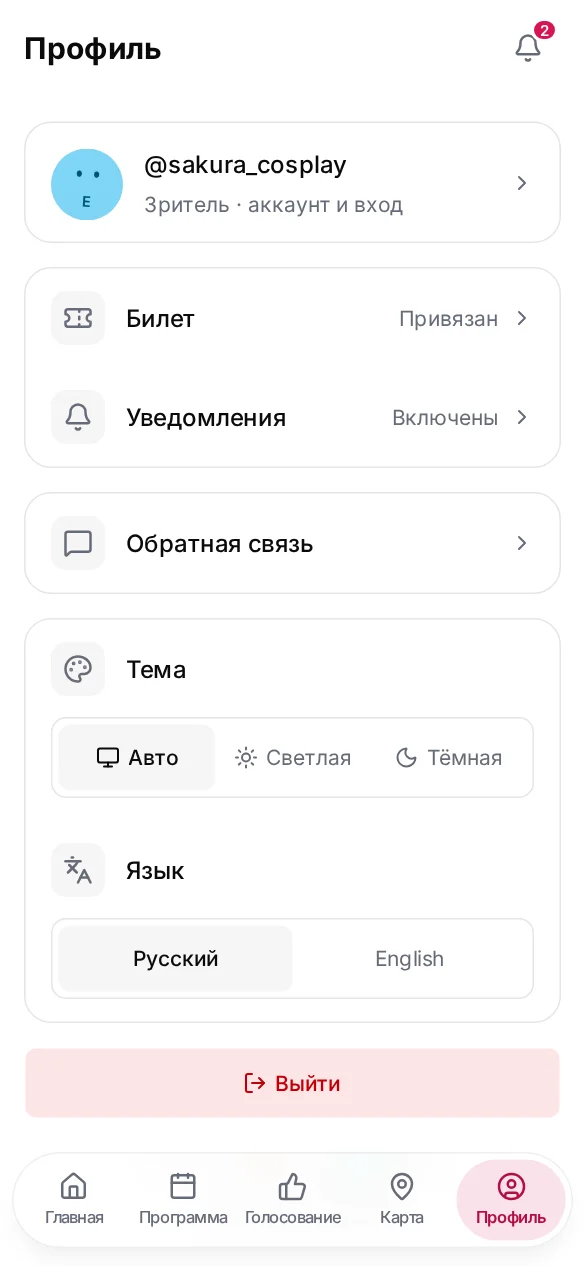
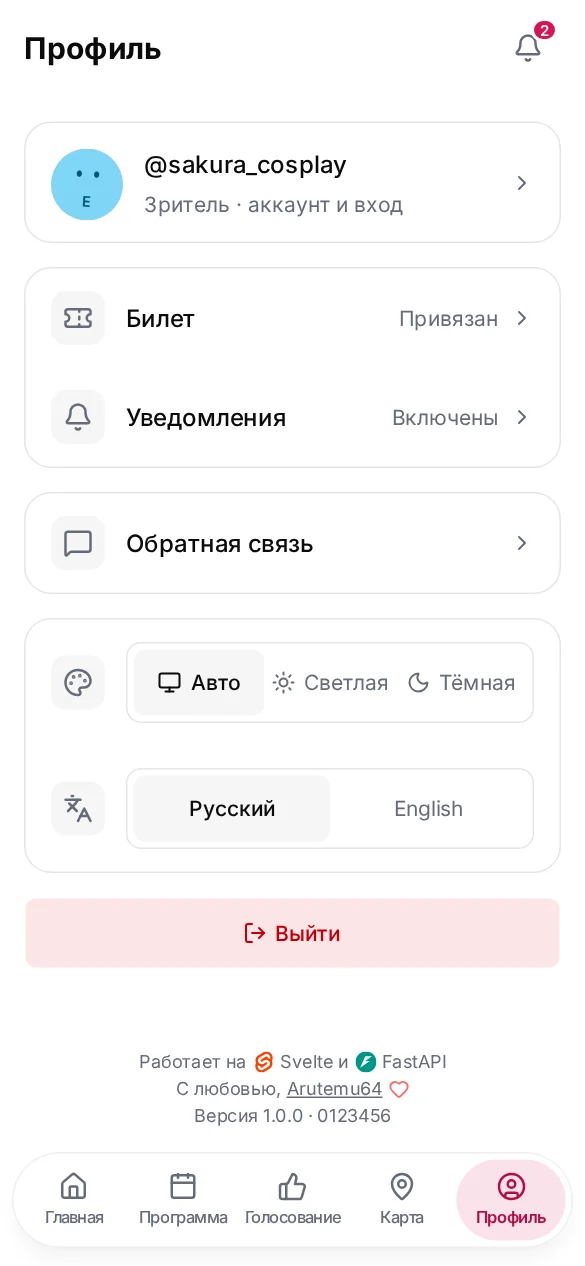
feat(frontend): English for unsupported browsers and a profile footer above the nav
A browser listing neither Russian nor English now opens in English, with a
saved pick still winning. The theme and language rows are one line each, so
the profile footer clears the bottom nav without scrolling at 390x844.

Claude-Session: https://claude.ai/code/session_01QGKQirUGb8a7znZn7Lq7jR

diff --git a/frontend/src/routes/(app)/profile/+page.svelte b/frontend/src/routes/(app)/profile/+page.svelte
@@ -197,29 +197,26 @@
 					{/snippet}
 				</Item.Root>
 			{/if}
-			<!-- An icon like every other hub row: the install row above shares this card,
-			     and a list that gives icons to only some rows reads as two layouts. -->
+			<!-- One line per setting: the control carries its own labels, so a title
+			     row above it would only spend height the footer below needs to stay
+			     above the bottom nav without scrolling. An icon like every other hub
+			     row: the install row above shares this card, and a list that gives
+			     icons to only some rows reads as two layouts. -->
 			<Item.Root class="rounded-none">
 				<Item.Media class="size-9 rounded-lg bg-muted text-muted-foreground">
 					<Palette class="size-5" aria-hidden="true" />
 				</Item.Media>
-				<Item.Content>
-					<Item.Title class="text-base">{m.profile_theme()}</Item.Title>
-				</Item.Content>
-				<Item.Footer>
+				<Item.Content class="min-w-0">
 					<ThemeToggle />
-				</Item.Footer>
+				</Item.Content>
 			</Item.Root>
 			<Item.Root class="rounded-none">
 				<Item.Media class="size-9 rounded-lg bg-muted text-muted-foreground">
 					<Languages class="size-5" aria-hidden="true" />
 				</Item.Media>
-				<Item.Content>
-					<Item.Title class="text-base">{m.language()}</Item.Title>
-				</Item.Content>
-				<Item.Footer>
+				<Item.Content class="min-w-0">
 					<LanguageToggle />
-				</Item.Footer>
+				</Item.Content>
 			</Item.Root>
 		</MenuGroup>
 

diff --git a/frontend/e2e/specs/language.spec.ts b/frontend/e2e/specs/language.spec.ts
@@ -1,7 +1,7 @@
 import { expect, test } from '../fixtures';
 
 // The language is the first of: an explicit pick (localStorage, applied after a
-// reload), the browser's language list, Russian. The suite's browser is ru-RU
+// reload), the browser's language list, English for a browser that lists neither. The suite's browser is ru-RU
 // (playwright.config.ts), so the first describe runs as a Russian reader.
 test.describe('interface language', () => {
 	test('stays Russian by default', async ({ page, api }) => {
@@ -81,7 +81,16 @@ test.describe('browser language', () => {
 	test.describe('unsupported browser language', () => {
 		test.use({ locale: 'zh-CN' });
 
-		test('falls back to Russian', async ({ page, api }) => {
+		test('falls back to English', async ({ page, api }) => {
+			await page.goto('/profile');
+
+			await expect(page.locator('html')).toHaveAttribute('lang', 'en');
+			await expect(page.getByRole('main').getByRole('link', { name: 'Sign in' })).toBeVisible();
+			expect(api.unmatched).toEqual([]);
+		});
+
+		test('still honors a saved Russian pick', async ({ page, api }) => {
+			await page.addInitScript(() => localStorage.setItem('PARAGLIDE_LOCALE', 'ru'));
 			await page.goto('/profile');
 
 			await expect(page.locator('html')).toHaveAttribute('lang', 'ru');

diff --git a/frontend/vite.config.ts b/frontend/vite.config.ts
@@ -68,14 +68,16 @@ export default defineConfig(({ mode }) => {
 			}),
 			// Compiles messages/*.json into src/lib/paraglide/ on every dev edit and
 			// build. Client-only locale resolution: an explicit pick (localStorage)
-			// wins, then the browser's language list, then Russian — no URL prefix (the
+			// wins, then the browser's language list, then English for a browser that
+			// lists neither supported language (custom-englishFallback, registered in
+			// hooks.client.ts); Russian is only the last resort — no URL prefix (the
 			// SPA has one URL space and nginx serves one shell for it) and no cookie
 			// (there is no server to read it). See ADR-0027. `pnpm paraglide` compiles the same output for the
 			// tools that run without Vite (svelte-check, ESLint).
 			paraglideVitePlugin({
 				project: './project.inlang',
 				outdir: './src/lib/paraglide',
-				strategy: ['localStorage', 'preferredLanguage', 'baseLocale'],
+				strategy: ['localStorage', 'preferredLanguage', 'custom-englishFallback', 'baseLocale'],
 				emitTsDeclarations: true
 			}),
 			tailwindcss(),

diff --git a/frontend/src/hooks.client.ts b/frontend/src/hooks.client.ts
@@ -8,7 +8,18 @@ import {
 import * as Sentry from '@sentry/sveltekit';
 
 import { m } from '#lib/paraglide/messages.js';
+import { defineCustomClientStrategy } from '#lib/paraglide/runtime.js';
 import { readStorage, writeStorage } from '#lib/utils/safeStorage.js';
+
+// A browser that lists neither Russian nor English (a Chinese or Ukrainian-only
+// setup, say) gets English: the app can't be read in its language either way, and
+// English is the likelier second language. It sits after `preferredLanguage` in
+// the strategy (vite.config.ts), so it only answers when nothing matched. Defined
+// here because this module runs before any route code asks for a locale.
+defineCustomClientStrategy('custom-englishFallback', {
+	getLocale: () => 'en',
+	setLocale: () => {}
+});
 
 // Server errors belong to the backend, which reports them with a full stack
 // trace and request context; a frontend mirror is a duplicate with none of that,

diff --git a/frontend/src/app.html b/frontend/src/app.html
@@ -87,7 +87,7 @@
 				// Match <html lang> to the locale Paraglide will resolve before first
 				// paint, so screen readers and hyphenation pick the right language from
 				// the start. Same order as its strategy (vite.config.ts): the stored
-				// pick, then the first browser language the app supports, else Russian.
+				// pick, then the first browser language the app supports, else English.
 				var locale = null;
 				try {
 					locale = localStorage.getItem('PARAGLIDE_LOCALE');
@@ -100,7 +100,7 @@
 						if (base === 'ru' || base === 'en') locale = base;
 					}
 				}
-				if (locale === 'en') document.documentElement.lang = 'en';
+				document.documentElement.lang = locale === 'ru' ? 'ru' : 'en';
 				if (isDark) {
 					document.documentElement.classList.add('dark');
 					// Seed the shell tint to match the resolved theme before first paint,

diff --git a/frontend/e2e/specs/install.spec.ts b/frontend/e2e/specs/install.spec.ts
@@ -39,7 +39,7 @@ test.describe('in a desktop browser that cannot install', () => {
 
 	test('hides the install row', async ({ page }) => {
 		await page.goto('/profile');
-		await expect(page.getByText('Тема', { exact: true })).toBeVisible();
+		await expect(page.getByRole('group', { name: 'Тема оформления' })).toBeVisible();
 
 		// The library's fallback reports availability on a 1 s timer, so give it
 		// longer than that before asserting the row never appeared.

diff --git a/docs/adr/0027-paraglide-for-frontend-i18n.md b/docs/adr/0027-paraglide-for-frontend-i18n.md
@@ -25,13 +25,16 @@ We will use [Paraglide JS](https://paraglidejs.com) 2.x (`@inlang/paraglide-js`)
 - Messages live in `frontend/messages/{ru,en}.json`, Russian as the base locale,
   compiled by the Vite plugin into `src/lib/paraglide/` (gitignored). Components
   call `m.key()`; each key is a tree-shaken function with typed parameters.
-- Locale strategy is `['localStorage', 'preferredLanguage', 'baseLocale']`: an
-  explicit pick in the profile hub wins, then the first language in the browser's
-  list that the app supports, then Russian. Foreign guests (an English-speaking
-  or Chinese attendee) won't know the app has English, so it opens in their
-  language without being asked. The pick comes first, or the switch could never
-  stick for someone whose browser says otherwise. A browser that lists only
-  unsupported languages (say, `zh-CN` alone) gets Russian.
+- Locale strategy is `['localStorage', 'preferredLanguage',
+  'custom-englishFallback', 'baseLocale']`: an explicit pick in the profile hub
+  wins, then the first language in the browser's list that the app supports,
+  then English for a browser that lists neither Russian nor English. Foreign
+  guests (an English-speaking or Chinese attendee) won't know the app has
+  English, so it opens in a language they can read without being asked. The pick
+  comes first, or the switch could never stick for someone whose browser says
+  otherwise. Russian is only the last resort (`baseLocale`, also the source
+  language of the catalogs). The fallback strategy is registered in
+  `hooks.client.ts`, which runs before any route asks for a locale.
 - `setLocale()` keeps its default of reloading the page. Messages stay plain
   function calls (no reactive state), and module-level `Intl` formatters and
   lookup tables stay correct because the locale cannot change within a page load.
